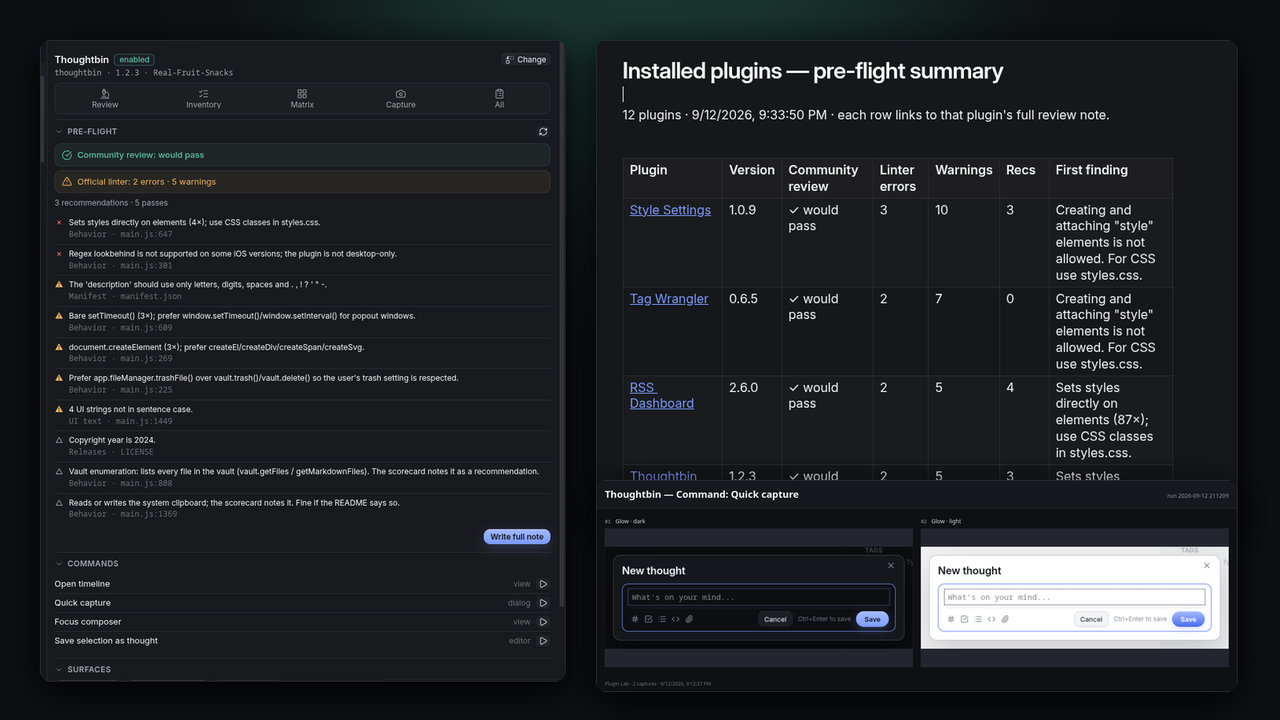
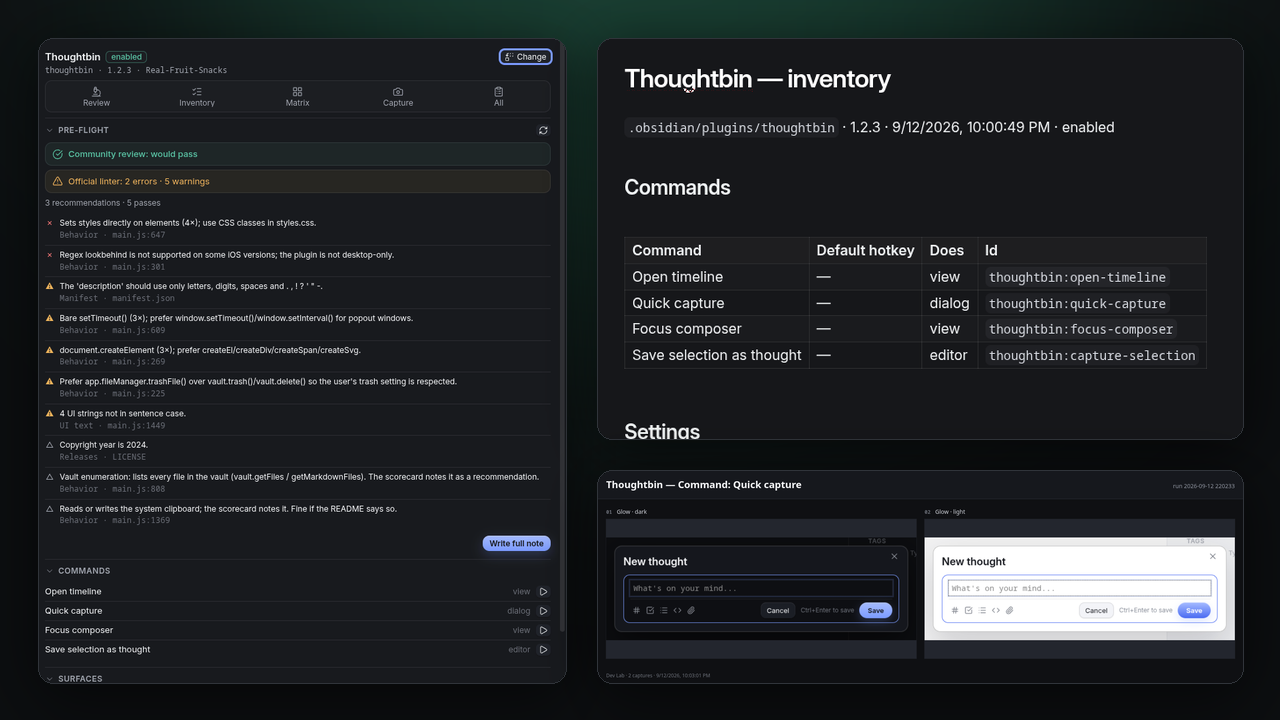
Refresh site images from 1.0.1; move rename note to Notes

diff --git a/docs/index.html b/docs/index.html
@@ -53,7 +53,7 @@
       <a class="btn primary" href="#install">Install Dev Lab</a>
       <a class="btn secondary" href="https://github.com/Real-Fruit-Snacks/obsidian-plugin-lab">View source</a>
     </div>
-    <div class="frame"><img src="assets/hero.png" alt="Dev Lab: the panel reviewing a plugin, a summary of every installed plugin, and a dialog captured under a theme in both schemes"></div>
+    <div class="frame"><img src="assets/hero.png" alt="Dev Lab: the panel reviewing a plugin, its inventory note, and a dialog captured under a theme in both schemes"></div>
   </div>
 
   <section id="features">
@@ -78,7 +78,7 @@
     </div>
     <div class="shots-3">
       <figure><img src="assets/panel.png" alt="The panel: live pre-flight with both verdicts, then commands and surfaces"><figcaption>The panel — live pre-flight, re-checked on demand.</figcaption></figure>
-      <figure><img src="assets/summary.png" alt="A summary note reviewing every installed plugin"><figcaption>Every installed plugin, worst first, each linked to its note.</figcaption></figure>
+      <figure><img src="assets/inventory.png" alt="An inventory note: the plugin's commands with what each one does, then its settings"><figcaption>The inventory — commands, settings, surfaces, and a README snippet.</figcaption></figure>
       <figure><img src="assets/matrix-modal.png" alt="The capture dialog"><figcaption>The capture dialog — themes, schemes, surfaces, commands.</figcaption></figure>
     </div>
     <div class="frame" style="margin-top:24px"><img src="assets/sheet-quick-capture.png" alt="A contact sheet: a plugin's dialog under one theme, dark and light"></div>

diff --git a/README.md b/README.md
@@ -1,14 +1,12 @@
 # Dev Lab
 
-*Formerly "Plugin Lab" — the directory doesn't allow that word in a name. The plugin id is still `plugin-lab`.*
-
 **Ship a plugin that passes review the first time.** Dev Lab reads an installed plugin's `main.js`, `styles.css` and `manifest.json` and tells you what the community review will say and what the official linter would flag — with the rule id, the file and the line. Then it inventories the plugin's commands, settings and surfaces, and captures its UI under every theme you have installed, in dark and light.
 
 [![Site](https://img.shields.io/badge/site-real--fruit--snacks.github.io-3DBE8B)](https://real-fruit-snacks.github.io/obsidian-plugin-lab/)
 [![Release](https://img.shields.io/github/v/release/Real-Fruit-Snacks/obsidian-plugin-lab?color=3DBE8B)](https://github.com/Real-Fruit-Snacks/obsidian-plugin-lab/releases/latest)
 [![License](https://img.shields.io/badge/license-MIT-lightgrey)](LICENSE)
 
-![Dev Lab: the panel reviewing Thoughtbin, a summary of every installed plugin, and a modal captured under a theme in both schemes](docs/assets/hero.png)
+![Dev Lab: the panel reviewing Thoughtbin, its inventory note, and a modal captured under a theme in both schemes](docs/assets/hero.png)
 
 It's the twin of [Theme Lab](https://github.com/Real-Fruit-Snacks/obsidian-theme-lab): the same panel, the same capture engine, aimed at plugin authors instead of theme authors. It was built after a first release failed review over a word in the manifest description.
 
@@ -32,6 +30,8 @@ The engine masks comments, regex literals and string contents before scanning, s
 ### Inventory
 
 One note: every command with its current hotkey and what it does (read from the code: opens a dialog, opens a view, needs an editor, writes files, uses the network), every setting in source order with its type and description, headings, ribbon icons, views, code-block processors, URI handlers, menu hooks, dialog classes, the keys stored in `data.json`, and a README-ready snippet.
+
+![An inventory note: Thoughtbin's commands with what each one does, then its settings](docs/assets/inventory.png)
 
 ### UI under every theme
 
@@ -87,6 +87,10 @@ It reads code as text, so it's an approximation. When it's wrong about a rule, t
 ## Contributing
 
 See [CONTRIBUTING.md](CONTRIBUTING.md). No build step: `main.js`, `styles.css`, `manifest.json`. Every review rule has a case in the test harness.
+
+## Notes
+
+Formerly "Plugin Lab" — the directory doesn't allow that word in a plugin name. The plugin id is still `plugin-lab`, so existing installs and hotkeys keep working.
 
 ## License
 
